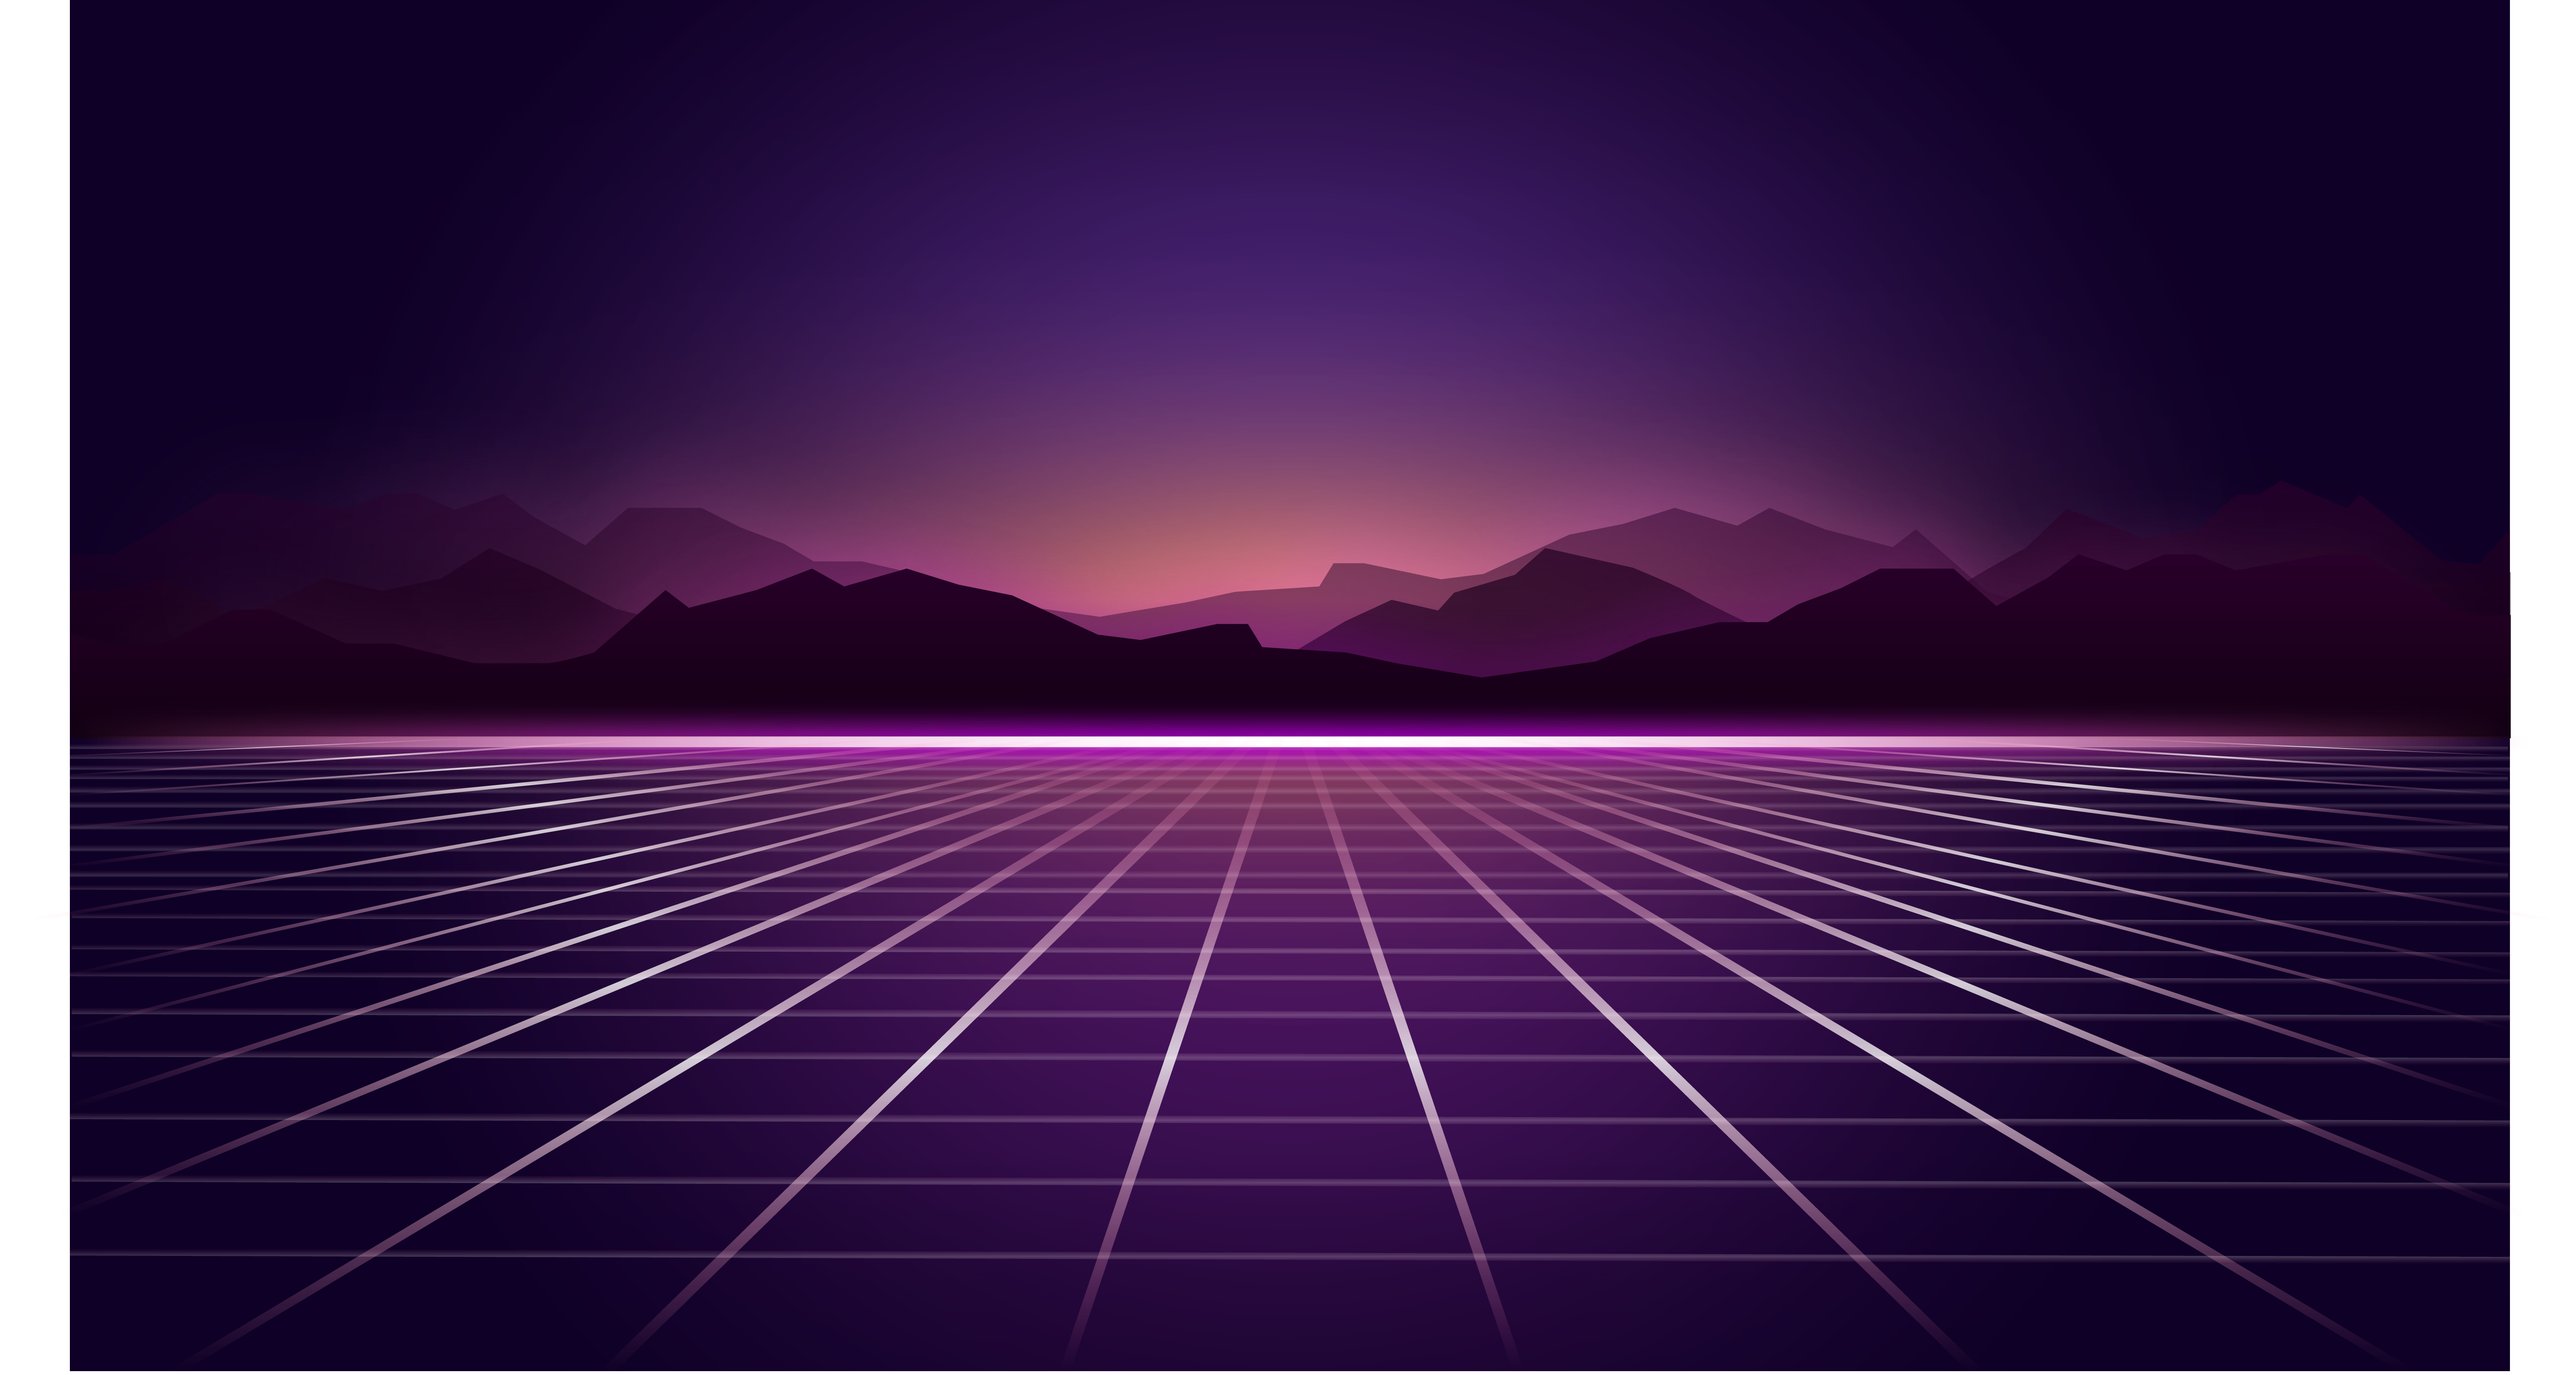
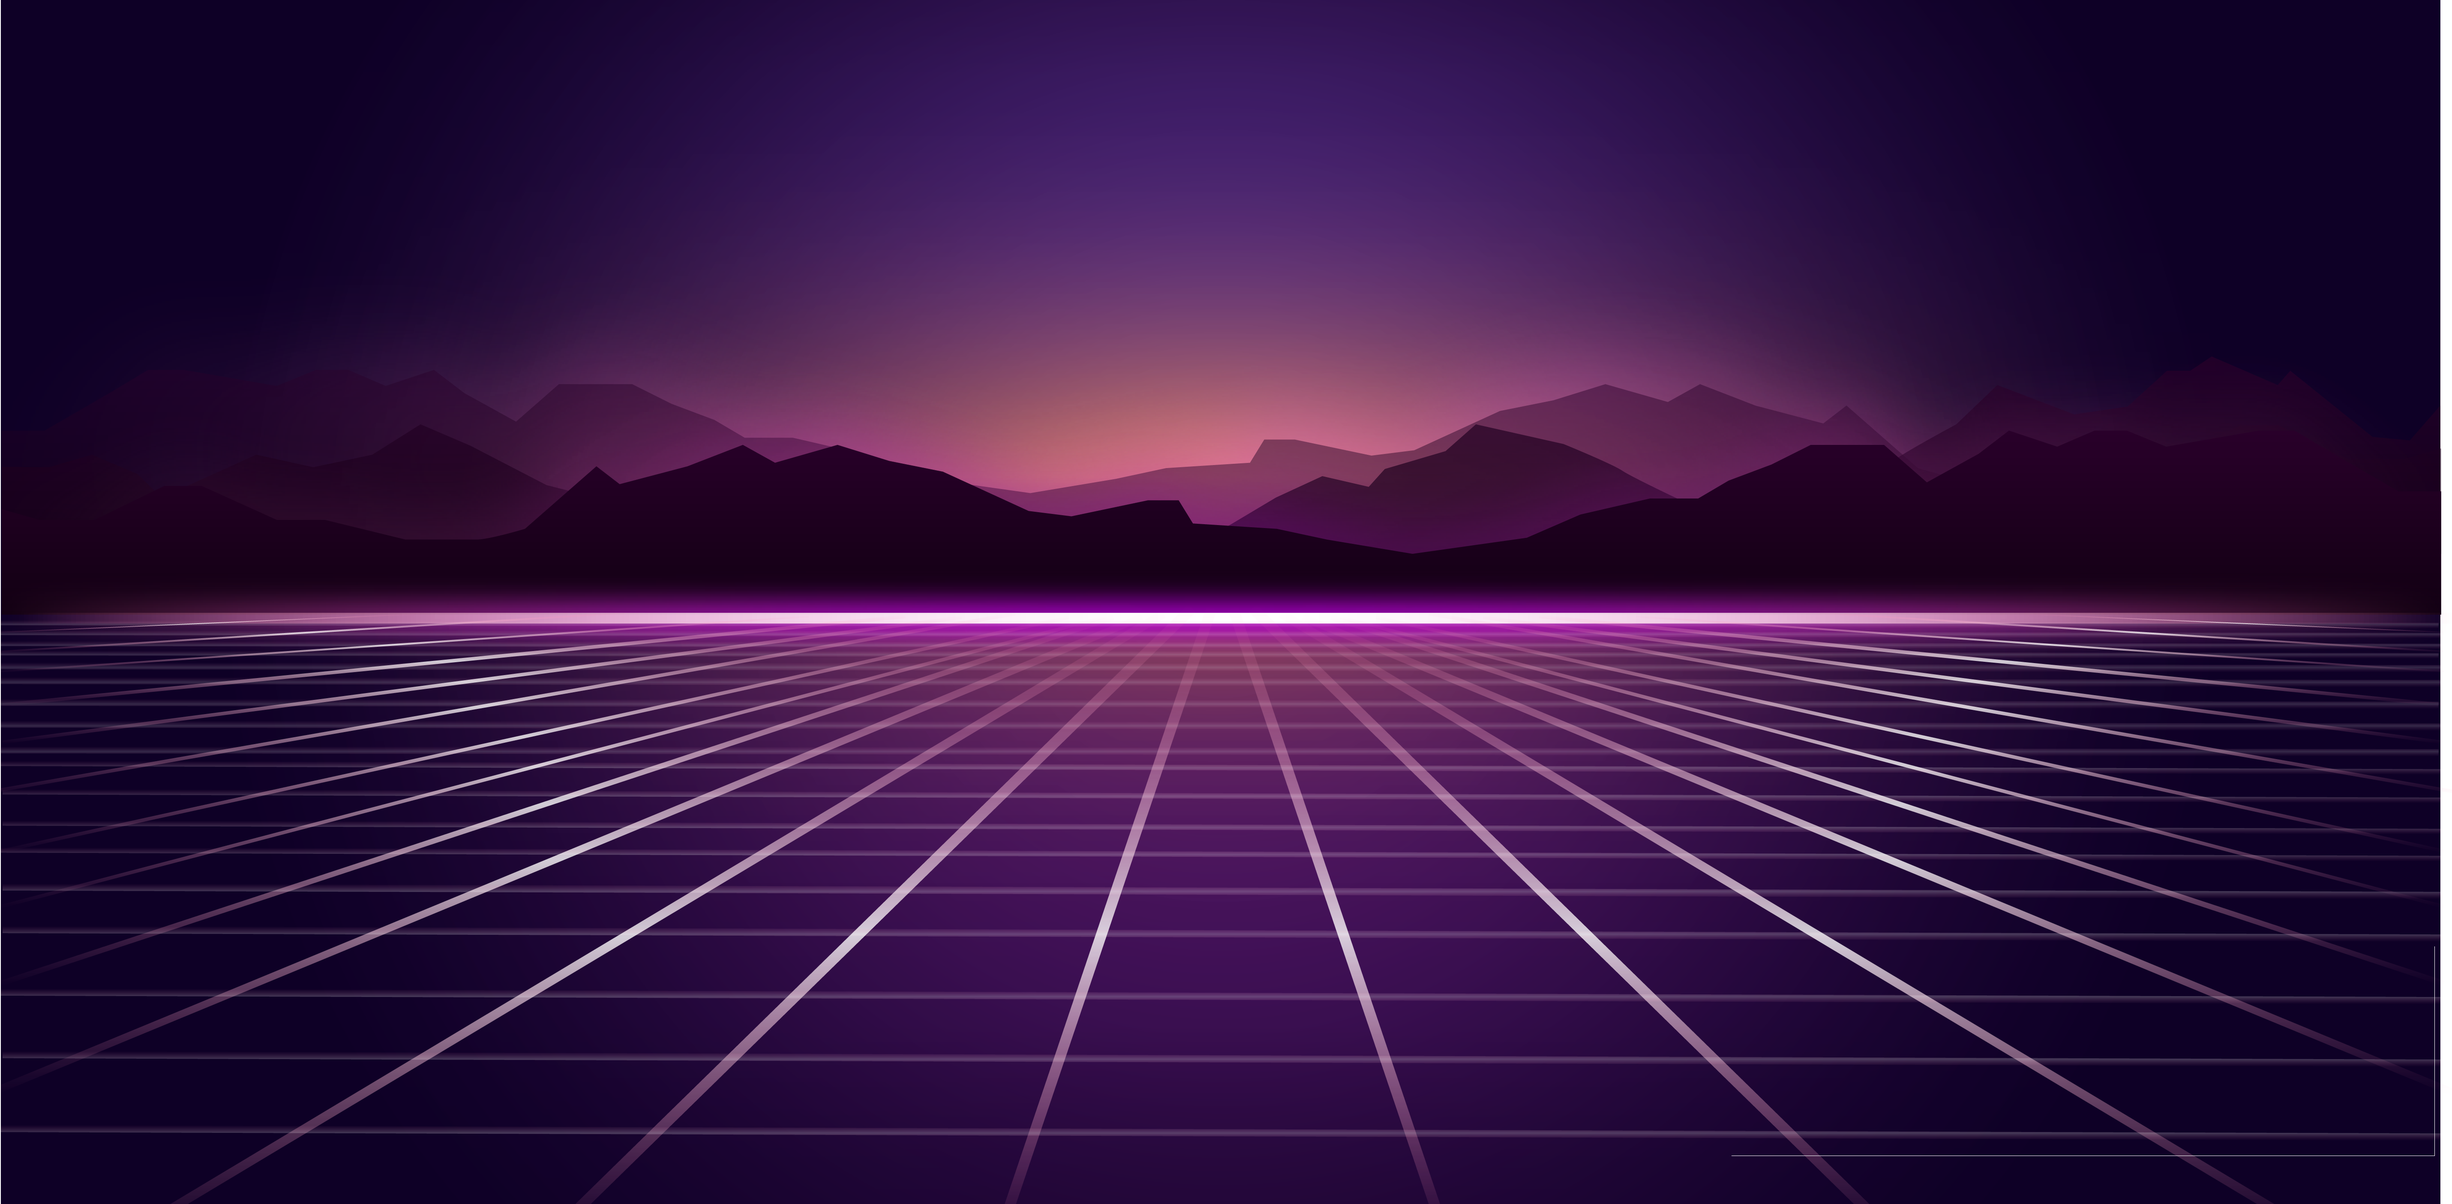
made mobile compatible

Changed region(s): [[0.0, 0.0, 0.9956, 1.0]]

diff --git a/src/TrystWithTime/index.js b/src/TrystWithTime/index.js
@@ -13,7 +13,6 @@ export default class Tilt extends React.Component {
       'max-glare': 0.5,
       easing: "cubic-bezier(.17,.67,.83,.67)",
       gyroscope: true,
-      scale:1.2
     })
   }
   render() {
@@ -27,10 +26,10 @@ export default class Tilt extends React.Component {
           {/* <img src={require('../static/beach1.png')}  className="stage" alt="stage"/> */}
           {/* <a href="https://www.freepik.com/free-photos-vectors/flower">Flower photo created by kjpargeter - www.freepik.com</a> */}
           {/* <img src={require('../static/10207.jpg')}  className="coconut" alt="coconut"/> */}
-          <img src={require('../static/coconut.png')}  className="coconut2" alt="coconut2"/>
+          {/* <img src={require('../static/coconut.png')}  className="coconut2" alt="coconut2"/>
           <img src={require('../static/retro-tree.png')}  className="coconut3" alt="coconut3"/>
           <img src={require('../static/retro-tree.png')}  className="coconut4" alt="coconut4"/>
-          
+           */}
         </div>
 
     )

diff --git a/src/TrystWithTime/VideoPlayer.css b/src/TrystWithTime/VideoPlayer.css
@@ -1,12 +1,10 @@
 
 .player-wrapper{
-    position: absolute;
-    top: 14%;
-    left: 32%;
     /* box-shadow: 3px 3px 5px 6px rgb(110, 28, 131); */
     width: 650px;
-    height: 500px;
+    height: 70vh;
     z-index: -100;
+    margin: auto;
 }
 
 @media only screen and (max-width: 500px){
@@ -15,8 +13,8 @@
     }
     .player-wrapper{
         width: 380px;
-        height: 500px;
-        margin-left: -23%;
+        height: 45vh;
+        /* margin-left: -23%; */
     }
 
     .react-player{

diff --git a/src/TrystWithTime/index.css b/src/TrystWithTime/index.css
@@ -6,13 +6,11 @@ html, body{
 	background: #333;
 	justify-content: center;
 	align-items: center;
-	height:1000px;
 	font-family: Helvetica Neue;
 	overflow: hidden;
   }
   
   .tilt-root{
-	height: 200px;
 	background-image: url('../static/neon-bg.png');
 	transform-style: preserve-3d;
 	will-change: transform;
@@ -38,7 +36,6 @@ html, body{
 	width:300px;
 	top: 0%;
 	left: 23%;
-	/* transform: rotate3d(0,1,0.5,3.142rad) */
 }
 
 .coconut3{

diff --git a/src/TrystWithTime/VideoPlayer.js b/src/TrystWithTime/VideoPlayer.js
@@ -14,6 +14,7 @@ var VideoPlayer = () => {
                 fluid = "false"
                 width= '100%'
                 height = '100%'
+                controls = "true"
             />
         </div>
     )
